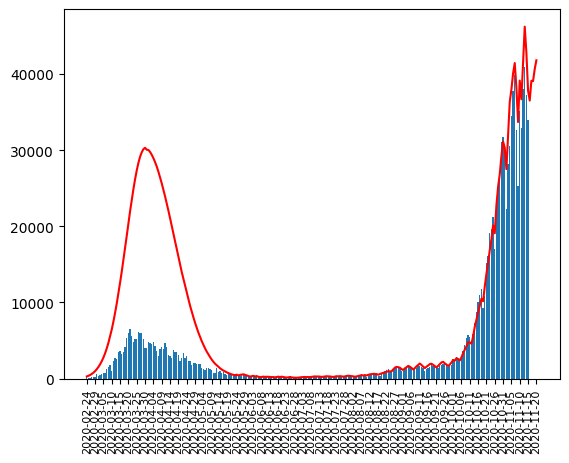
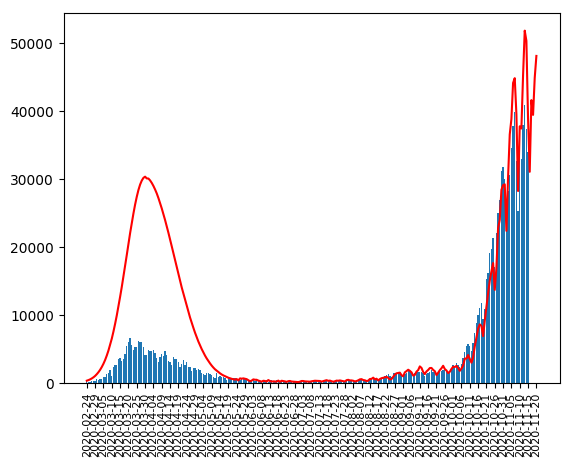
changing the value for using 7 days ago

Changed region(s): [[0.0, 0.0, 0.9859, 0.9978]]

diff --git a/forecast.py b/forecast.py
@@ -98,7 +98,7 @@ for i in range(total):
         n = (5 * n + 2 * moving_7_day_sum / 7) / 7
     else:
         if i > 7:
-            n = (1 + trend_direction * 0.1) * (8 *(moving_7_day_sum / 7) + 2 * real_data[i - sample_from_n_days_ago]) / 10.0
+            n = (1 + trend_direction * 0.1) * (1 *(moving_7_day_sum / 7) + 9 * real_data[i - sample_from_n_days_ago]) / 10.0
         else:
             n = (1 + trend_direction * 0.1) * moving_7_day_sum / 7
     n = int(round(n))

diff --git a/README.md b/README.md
@@ -12,11 +12,11 @@ I assume that peak day is 2020-03-30.
 ### predicted 5 days
 date        | new case
 ------------|----------
-2020-11-16	| 36509
-2020-11-17	| 39113
-2020-11-18	| 39057
-2020-11-19	| 40638
-2020-11-20	| 41796
+2020-11-16	| 31022
+2020-11-17	| 41565
+2020-11-18	| 39395
+2020-11-19	| 44839
+2020-11-20	| 48068
 
 
 ### Total
